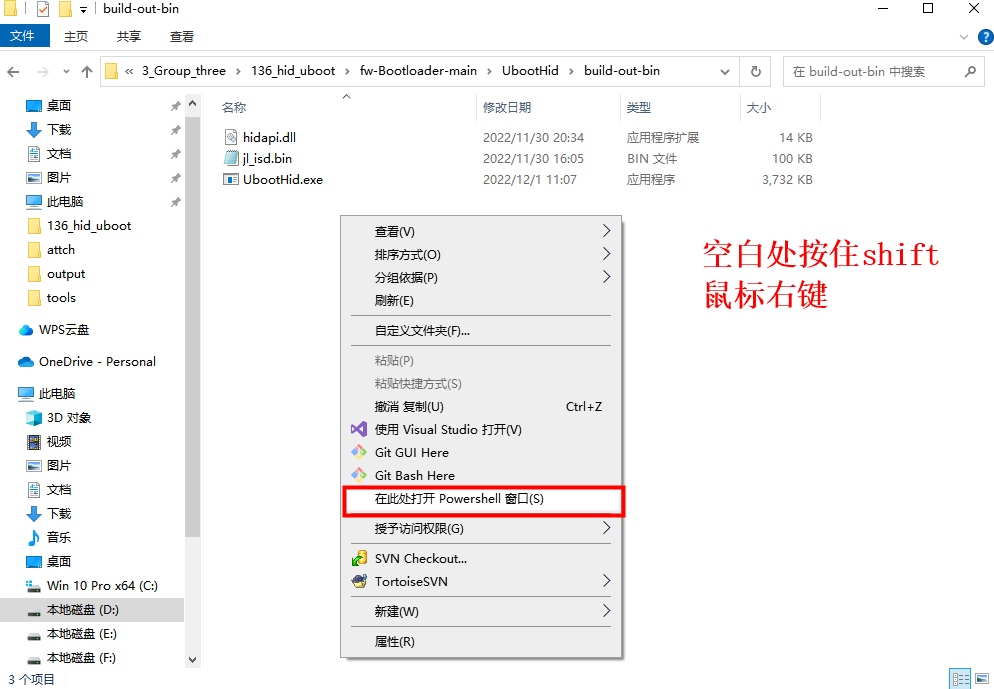
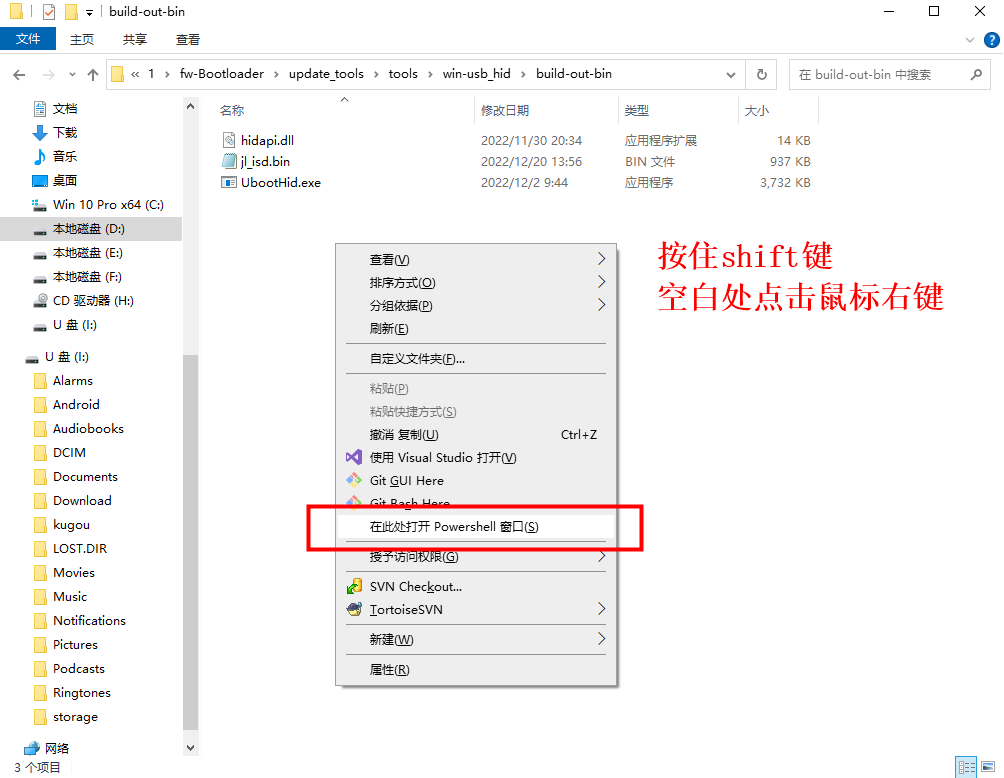
文件路径修改，图片更新。

diff --git a/doc/uboot升级使用说明v1.1.2.md b/doc/uboot升级使用说明v1.1.2.md
@@ -183,7 +183,7 @@ user.h文件中，使能 USE_UPGRADE_MAGIC 宏。如图所示：
 
 ### 2.win-USB_HID 升级上位机说明如下：（暂时没有图形界面）
 
-    1. 打开 fw-Bootloader-main\pc_demo\usb_hid\build-out-bin 文件夹 ；
+    1. 打开 fw-Bootloader-main\update_tools\tools\win-usb_hid\build-out-bin 文件夹 ；
     2. 将生成的 jl_isd.bin 文件复制到文件夹 ；
     3. 打开 Powershell 窗口 ；
     4. 输入 .\UbootHid.exe ， 回车执行 ；
